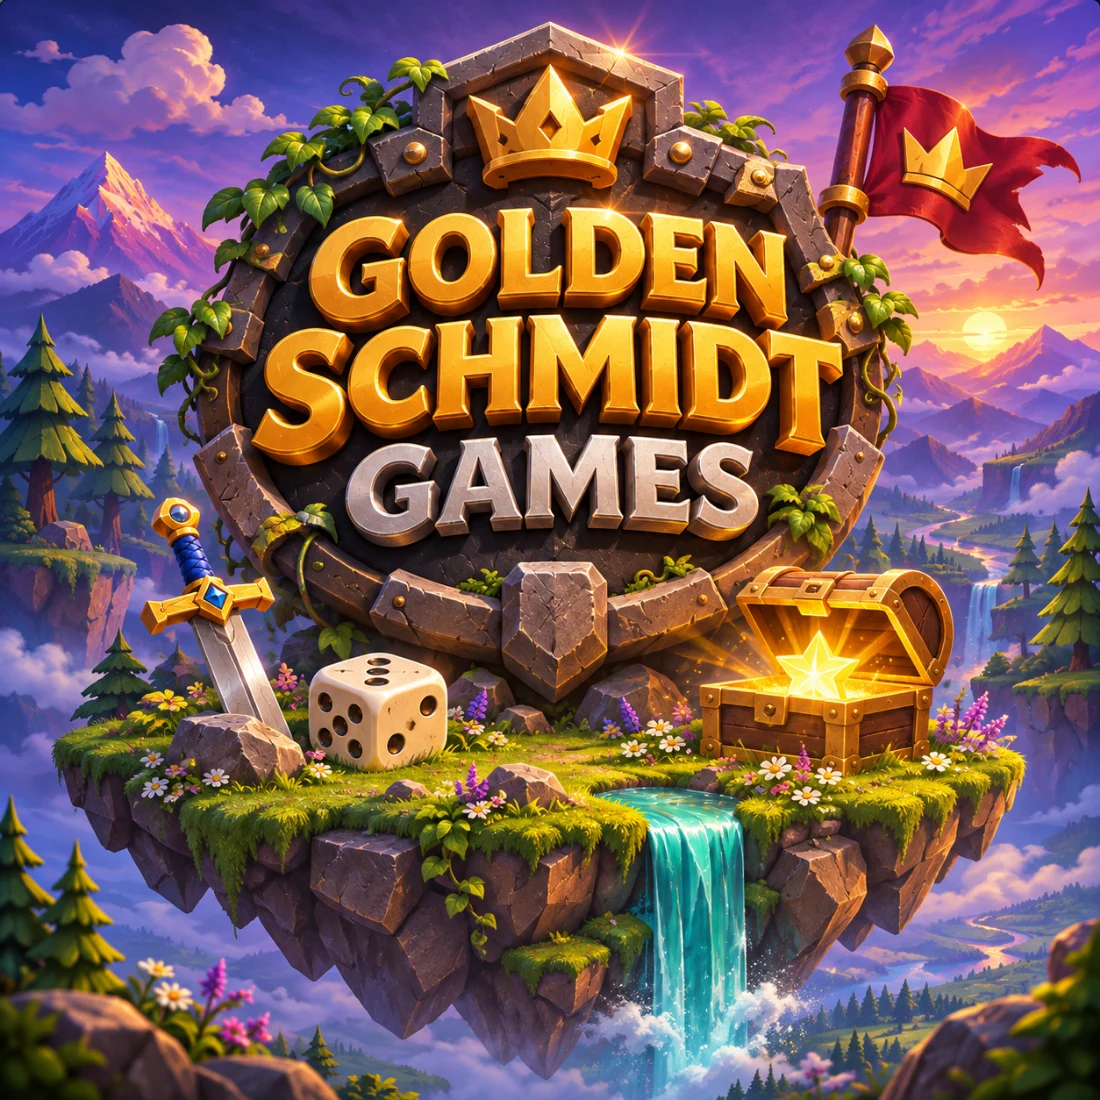
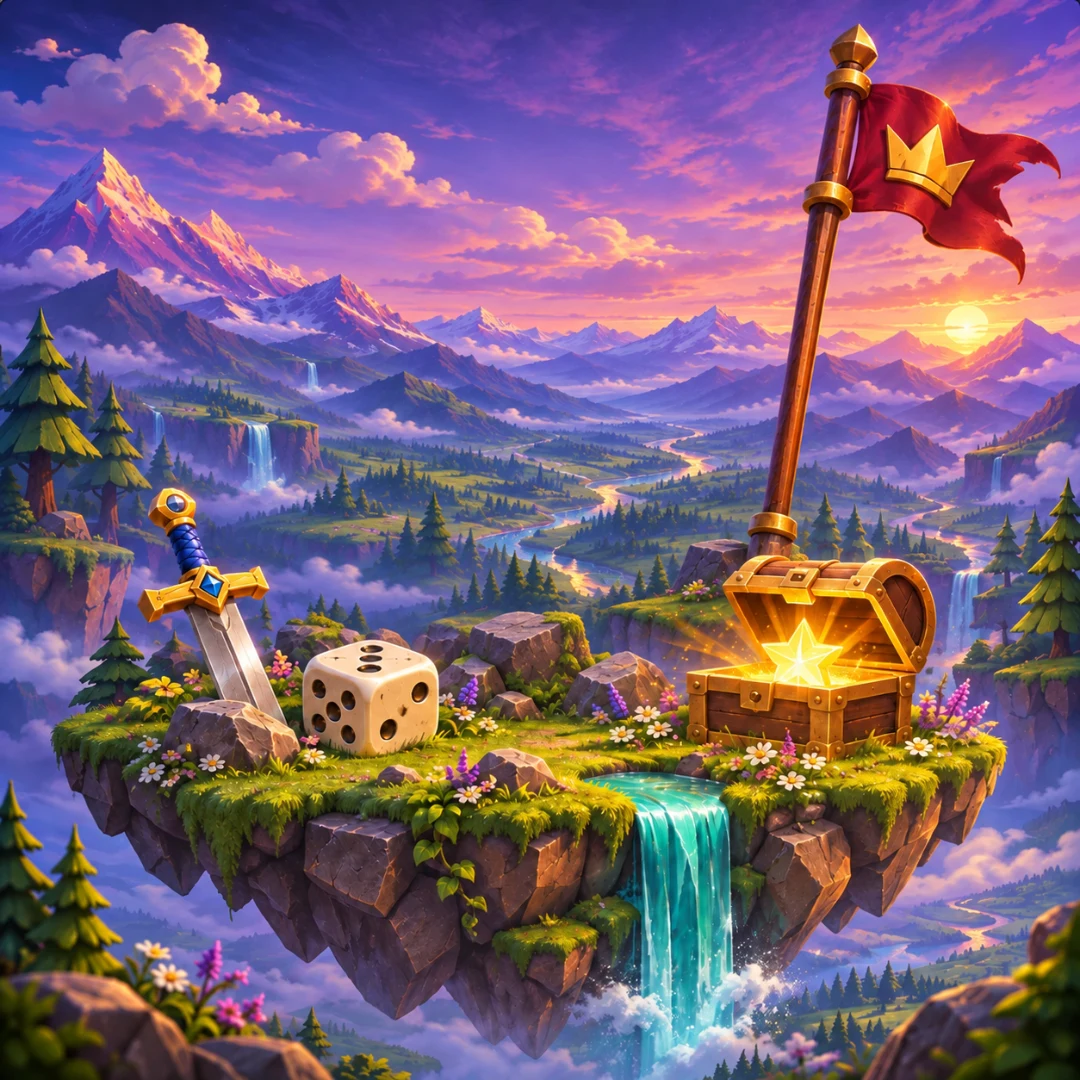
Animiere das Startwappen und unterscheide Menüklicks nach Richtung

diff --git a/src/styles/home.css b/src/styles/home.css
@@ -28,16 +28,21 @@
 .expedition-profile span { display: grid; place-items: center; border-radius: 50%; width: 30px; height: 30px; flex: none; background: linear-gradient(145deg,#ffdaeb,#ac7ccc); color: #311831; font: 1.1rem var(--iw-font-display); }
 .expedition-profile b { font-size: .78rem; text-overflow: ellipsis; white-space: nowrap; overflow: hidden; }
 .expedition-hero { width: min(100%, 760px); flex: 1 1 0; min-height: 0; margin: 0; position: relative; }
-.expedition-hero img { display: block; width: 100%; height: 100%; object-fit: cover; object-position: 50% 42%;
-  mask-image: linear-gradient(to bottom,transparent,black 5%,black 89%,transparent);
-  animation: island-arrival 850ms cubic-bezier(.2,.7,.3,1) both;
-}
+.expedition-scene { position:absolute; inset:0; container-type:size; pointer-events:none; }
+.expedition-island { display:block; width:100%; height:100%; object-fit:cover; object-position:50% 42%;
+  mask-image:linear-gradient(to bottom, transparent, black 7%, black 86%, transparent); }
+.expedition-crest { display:block; position:absolute; width:min(100cqh, 125cqw); aspect-ratio:1;
+  left:50%; top:42%; transform:translate(-50%, -42%); }
+.crest-piece { position:absolute; display:block; height:auto; }
+.crest-plaque { left:12%; top:2%; width:76%; height:59%; --arrival:0ms; }
+.crest-golden { left:25%; top:18.5%; width:50%; --arrival:480ms; }
+.crest-schmidt { left:20%; top:31%; width:60%; --arrival:880ms; }
+.crest-games { left:29.5%; top:44.5%; width:41%; --arrival:1280ms; }
+.crest-crown { left:42.9%; top:6.9%; width:14.2%; --arrival:1680ms; }
 .expedition-dock { flex: none; width: min(100%, 540px); padding: 0 20px max(12px,env(safe-area-inset-bottom)); text-align: center; }
-.expedition-motto { display: flex; align-items: center; justify-content: center; gap: 11px; font: 600 clamp(.62rem,2.6vw,.76rem) var(--iw-font-ui);
-  letter-spacing: .13em; text-transform: uppercase; margin: 8px 0 18px; color: #ffe6aa; text-shadow: 0 1px 3px #000; }
-.expedition-motto i { height: 1px; width: 28px; position: relative; background: #d4ac72; }
-.expedition-motto i::after { content: ""; position:absolute; right:0; top:-2px; width:5px; height:5px; transform:rotate(45deg); background:#f7d68e; }
-.expedition-motto i:last-child { transform:rotate(180deg); }
+.expedition-motto { font:600 clamp(.76rem,3.3vw,.94rem)/1.35 var(--iw-font-ui); margin:8px 0 18px;
+  color:#ffe6aa; text-shadow:0 1px 4px #151120; text-wrap:balance; }
+.expedition-motto span { white-space:nowrap; }
 .expedition-actions { display: grid; gap: 12px; }
 .adventure-choice {
   --edge: #885123; --top: #fff1bf; --base: #ffc86a; --low: #e8a045; --accent: #75431e; --letter: #3a2215;
@@ -74,20 +79,34 @@
 .expedition-home :is(.menu-sound,.dock-tool,.expedition-profile):focus-visible { outline:3px solid #ffdd8e; outline-offset:3px; }
 .expedition-utilities:has(.app-update:not([data-status=idle],[data-status=unsupported])) {padding-bottom:44px;}
 .expedition-utilities .app-update:not([data-status=idle],[data-status=unsupported]) p {top:calc(100% - 39px);bottom:auto;padding:4px 8px;font-size:.7rem;max-height:40px;border:0;text-align:center;}
-@keyframes island-arrival {from {opacity:.35;transform:scale(1.035)} to {opacity:1;transform:scale(1)}}
+@media (prefers-reduced-motion:no-preference) {
+  .expedition-home[data-intro="loading"] :is(.crest-piece,.expedition-motto) { visibility:hidden; }
+  .expedition-home[data-intro="playing"] .crest-piece { animation:crest-drop 400ms var(--arrival) both; }
+  .expedition-home[data-intro="playing"] .crest-plaque { animation-duration:480ms; }
+  .expedition-home[data-intro="playing"] .expedition-motto { animation:motto-reveal 550ms ease-out 2080ms both; }
+}
+@keyframes crest-drop {
+  0% { transform:translateY(-110dvh); animation-timing-function:cubic-bezier(.4,.04,.8,.55); }
+  72% { transform:translateY(0); animation-timing-function:ease-out; }
+  85% { transform:translateY(-5px); animation-timing-function:ease-in; }
+  100% { transform:translateY(0); }
+}
+@keyframes motto-reveal { from { opacity:0; } to { opacity:1; } }
 @keyframes dock-arrival {from {opacity:.2;transform:translateY(10px)} to {opacity:1;transform:none}}
 .expedition-actions > button {animation:dock-arrival .38s ease-out both}
 .expedition-actions > button:nth-child(2) {animation-delay:.08s}
 @media (max-height:680px) {
   .expedition-motto { margin:2px 0 10px; }
   .expedition-utilities { margin-top:12px; }
-  .expedition-hero img {object-fit:contain;}
+  .expedition-island { width:min(100%, 100cqh); margin:auto; object-fit:contain;
+    mask-image:linear-gradient(to right,transparent,black 10%,black 90%,transparent), linear-gradient(to bottom,transparent,black 7%,black 88%,transparent);
+    mask-composite:intersect; }
 }
 @media (min-width:700px) and (orientation:landscape) {
   body:has(.expedition-home) {padding:0}
   .expedition-home {display:grid;grid-template: auto 1fr / minmax(0,1.35fr) minmax(280px,1fr);padding:0 max(22px,5vw);gap:0 5vw;}
   .expedition-bar {grid-column:1/-1;max-width:none;width:100%;}
   .expedition-hero {height:min(77dvh,680px);width:100%;}
-  .expedition-hero img {object-fit:contain;mask-image:radial-gradient(ellipse closest-side,#000 72%,transparent 145%);}
+  .expedition-island {object-fit:contain;mask-image:radial-gradient(ellipse closest-side,#000 72%,transparent 145%);}
 }
 @media (prefers-reduced-motion:reduce) { .expedition-home *, .adventure-choice__face {animation:none;transition:none;} }

diff --git a/tests/browser/home-screen.spec.ts b/tests/browser/home-screen.spec.ts
@@ -11,11 +11,28 @@ for (const reducedMotion of ["no-preference", "reduce"] as const) {
     const online = page.getByRole("button", { name: /Online spielen/ });
     await expect(local).toBeInViewport();
     await expect(online).toBeInViewport();
-    // The rendered island rises once and then the start screen rests; no live 3D scene is loaded.
     const island = page.getByRole("img", { name: "GoldenSchmidtGames" });
     await expect(island).toBeVisible();
-    // Every rendered layer and button sprite has loaded.
     await expect.poll(() => page.evaluate(() => [...document.querySelectorAll<HTMLImageElement>(".home img")].every(img => img.complete && img.naturalWidth > 0))).toBe(true);
+    await expect(page.locator(".home")).toHaveAttribute("data-intro", "playing");
+    const layers = page.locator(".crest-piece, .expedition-motto");
+    const animations = await layers.evaluateAll(elements => elements.map(element => {
+      const animation = element.getAnimations()[0];
+      const effect = animation?.effect as KeyframeEffect | undefined;
+      return effect && { delay: effect.getTiming().delay, end: effect.getComputedTiming().endTime,
+        frames: effect.getKeyframes() };
+    }));
+    if (reducedMotion === "reduce") {
+      expect(animations.every(animation => !animation)).toBe(true);
+    } else {
+      const order = await layers.evaluateAll(elements => elements.map(element => element.classList.item(element.classList.length - 1)));
+      expect(order).toEqual(["crest-plaque", "crest-golden", "crest-schmidt", "crest-games", "crest-crown", "expedition-motto"]);
+      for (let i = 1; i < animations.length; i++) {
+        expect(animations[i]?.delay).toBeGreaterThanOrEqual(Math.round(Number(animations[i - 1]?.end)));
+      }
+      expect(animations.at(-1)?.frames.map(frame => frame.opacity)).toEqual(["0", "1"]);
+      expect(animations.at(-1)?.frames.every(frame => !("transform" in frame))).toBe(true);
+    }
     await expect(page.locator(".expedition-actions .adventure-choice")).toHaveCount(2);
     await expect(page.locator(".home canvas")).toHaveCount(0);
     await expect.poll(() => page.evaluate(() => document.getAnimations()
@@ -23,7 +40,8 @@ for (const reducedMotion of ["no-preference", "reduce"] as const) {
       .filter(animation => animation.playState === "running").length), { timeout: 5000 }).toBe(0);
     // One fixed screen: nothing scrolls, the sky and corner layers are decoration only.
     expect(await page.evaluate(() => document.documentElement.scrollWidth <= innerWidth && document.documentElement.scrollHeight <= innerHeight)).toBe(true);
-    await expect(page.locator(".expedition-motto")).toBeVisible();
+    await expect(page.locator(".expedition-motto")).toHaveText("Play like the GoldenSchmidt - Be like the GoldenSchmidt");
+    await expect(page.locator(".expedition-motto")).toHaveCSS("opacity", "1");
     await page.screenshot({ path: info.outputPath(`start-${reducedMotion}.png`), fullPage: true });
 
     // Both modes remain immediately accessible, including from the keyboard.
@@ -31,6 +49,7 @@ for (const reducedMotion of ["no-preference", "reduce"] as const) {
     await page.keyboard.press("Enter");
     await expect(page.getByRole("heading", { name: "Lokal spielen", exact: true })).toBeVisible();
     await page.getByRole("button", { name: "Zurück", exact: true }).click();
+    await expect(page.locator(".home")).toHaveAttribute("data-intro", "complete");
     await page.getByRole("button", { name: /Online spielen/ }).click();
     await expect(page.getByRole("heading", { name: "Online spielen", exact: true })).toBeVisible();
     expect(errors).toEqual([]);

diff --git a/src/screens/HomeScreen.tsx b/src/screens/HomeScreen.tsx
@@ -1,3 +1,4 @@
+import { useEffect, useRef, useState } from "react";
 import type { GuestProfile } from "../../shared/types";
 import { InstallPrompt } from "../components/InstallPrompt";
 import { AppUpdate } from "../components/AppUpdate";
@@ -5,6 +6,15 @@ import { AdventureChoice } from "../components/AdventureChoice";
 import { MenuSound } from "../components/MenuSound";
 import { displayName } from "../lib/profile";
 import island from "../assets/expedition/island.webp";
+
+import plaque from "../assets/expedition/plaque.webp";
+import golden from "../assets/expedition/golden.webp";
+import schmidt from "../assets/expedition/schmidt.webp";
+import games from "../assets/expedition/games.webp";
+import crown from "../assets/expedition/crown.webp";
+
+const titleLayers = { plaque, golden, schmidt, games, crown };
+let introShown = false;
 
 interface HomeProps {
   profile: GuestProfile;
@@ -20,16 +30,39 @@ interface HomeProps {
 
 export function HomeScreen({profile, online, onProfile, onLocal, onOnline, onResumeHost, onResumeOnline, resumeGameName = "Inselparty", resumeError}: HomeProps) {
   const name = displayName(profile);
-  return <main className="home expedition-home">
+  const hero = useRef<HTMLHeadingElement>(null);
+  const [intro, setIntro] = useState<"loading" | "playing" | "complete">(() => introShown ? "complete" : "loading");
+  useEffect(() => {
+    if (intro !== "loading" || !hero.current) return;
+    let active = true;
+    const layers = Array.from(hero.current.querySelectorAll("img"));
+    void Promise.allSettled(layers.map(layer => layer.decode())).then(() => {
+      if (active) {
+        introShown = true;
+        setIntro("playing");
+      }
+    });
+    return () => { active = false; };
+  }, [intro]);
+  return <main className="home expedition-home" data-intro={intro}>
     <div className="expedition-bar">
       <span className="expedition-status"><i data-online={online} />{online ? "Online" : "Offline"}</span>
       <div className="expedition-account"><MenuSound/><button className="expedition-profile" onClick={onProfile} aria-label={`Gastprofil: ${name}`}>
         <span aria-hidden="true">{name.slice(0,1).toUpperCase()}</span><b>{name}</b>
       </button></div>
     </div>
-    <h1 className="expedition-hero"><img src={island} alt="GoldenSchmidtGames" fetchPriority="high"/></h1>
+    <h1 className="expedition-hero" ref={hero}>
+      <span className="expedition-scene" role="img" aria-label="GoldenSchmidtGames">
+        <img className="expedition-island" src={island} alt="" fetchPriority="high"/>
+        <span className="expedition-crest">
+          {Object.entries(titleLayers).map(([part, src]) =>
+            <img key={part} className={`crest-piece crest-${part}`} src={src} alt=""/>
+          )}
+        </span>
+      </span>
+    </h1>
     <div className="expedition-dock">
-      <div className="expedition-motto"><i aria-hidden="true"/>Minispiele · Party · Gemeinsam<i aria-hidden="true"/></div>
+      <div className="expedition-motto"><span>Play like the GoldenSchmidt</span> - <span>Be like the GoldenSchmidt</span></div>
       <nav className="expedition-actions" aria-label="Spielmodus wählen">
         <AdventureChoice title="Lokal spielen" detail="Zusammen an einem Gerät" icon="group" onClick={onLocal}/>
         <AdventureChoice title="Online spielen" detail="Jeder am eigenen Gerät" icon="globe" violet onClick={onOnline}/>

diff --git a/src/components/PartyMini.tsx b/src/components/PartyMini.tsx
@@ -76,5 +76,5 @@ export function PartyPractice({miniId,onClose,characterId}:{miniId:MiniId;onClos
   return <div className="party-overlay"><div className="party-practice" role="dialog" aria-modal="true" aria-label={`Übung: ${MINIS[miniId].name}`} tabIndex={-1} ref={dialog} onKeyDown={e=>{
     if(e.key==="Escape"){e.stopPropagation();close.current();}
     if(e.key==="Tab"){const buttons=dialog.current?.querySelectorAll<HTMLButtonElement>('button:not(:disabled)');if(!buttons?.length)return;const first=buttons[0],last=buttons[buttons.length-1];if(e.shiftKey&&(document.activeElement===first||document.activeElement===dialog.current)){e.preventDefault();last.focus();}else if(!e.shiftKey&&(document.activeElement===last||document.activeElement===dialog.current)){e.preventDefault();first.focus();}}
-  }}><p className="party-practice-label">Übung · zählt nicht zur Wertung</p><PartyPracticeGoals game={game}/><PartyMini game={publicParty(game,"practice",now)} id="practice" now={now} send={send} control={control}/>{error&&<p role="alert">{error}</p>}{game.mini?.runs.practice.done&&<button className="button button--primary button--wide" onClick={()=>{bots.current=new PartyBotDriver();setGame(createPartyPractice(miniId,Date.now(),characterId));setError("");}}>Noch einmal üben</button>}<button className="button button--secondary button--wide" onClick={onClose}>Übung schließen</button></div></div>;
+  }}><p className="party-practice-label">Übung · zählt nicht zur Wertung</p><PartyPracticeGoals game={game}/><PartyMini game={publicParty(game,"practice",now)} id="practice" now={now} send={send} control={control}/>{error&&<p role="alert">{error}</p>}{game.mini?.runs.practice.done&&<button className="button button--primary button--wide" onClick={()=>{bots.current=new PartyBotDriver();setGame(createPartyPractice(miniId,Date.now(),characterId));setError("");}}>Noch einmal üben</button>}<button className="button button--secondary button--wide" data-menu-direction="back" onClick={onClose}>Übung schließen</button></div></div>;
 }

diff --git a/src/matches/sfx.ts b/src/matches/sfx.ts
@@ -1,4 +1,4 @@
-/** Small synthesized sound effects; no audio files, no network. */
+/** Match effects are synthesized. Menu navigation shares one short mouse sample. */
 const KEY = "gsg.match.sound";
 let context: AudioContext | undefined;
 
@@ -10,27 +10,25 @@ export function unlockSound() {
   try { context ??= new AudioContext(); if (context.state === "suspended") void context.resume(); } catch { context = undefined; }
 }
 
-let clickBuffer: AudioBuffer | undefined;
+let clickBuffer: Promise<AudioBuffer> | undefined;
 
-export function playMenuClick() {
+export async function playMenuClick(direction: "forward" | "back" = "forward") {
   if (!soundEnabled()) return;
   unlockSound();
-  if (!context) return;
-  if (!clickBuffer) {
-    const rate = context.sampleRate;
-    clickBuffer = context.createBuffer(1, Math.ceil(rate * .032), rate);
-    const samples = clickBuffer.getChannelData(0);
-    for (let i = 0; i < samples.length; i++) {
-      const t = i / rate;
-      const snap = (Math.random() * 2 - 1) * .16 * Math.exp(-t / .002);
-      const body = .12 * Math.sin(2 * Math.PI * 340 * t) * Math.exp(-t / .0045);
-      samples[i] = Math.min(1, t / .00035) * (snap + body);
-    }
-  }
-  const source = context.createBufferSource();
-  source.buffer = clickBuffer;
-  source.connect(context.destination);
-  source.start();
+  const audio = context;
+  if (!audio) return;
+  try {
+    clickBuffer ??= fetch(new URL("../assets/audio/menu-click.wav?no-inline", import.meta.url))
+      .then(response => response.arrayBuffer())
+      .then(bytes => audio.decodeAudioData(bytes));
+    const buffer = await clickBuffer;
+    if (!soundEnabled()) return;
+    const source = audio.createBufferSource();
+    source.buffer = buffer;
+    source.playbackRate.value = direction === "back" ? .72 : 1;
+    source.connect(audio.destination);
+    source.start();
+  } catch { clickBuffer = undefined; }
 }
 
 export type Sfx = "tick" | "go" | "shot" | "hit" | "score" | "fail" | "win" | "bounce" | "power" | "boom";

diff --git a/tests/browser/menu-navigation.spec.ts b/tests/browser/menu-navigation.spec.ts
@@ -40,7 +40,7 @@ test("Menübuttons spielen genau einen kurzen Klick, stumme Buttons bleiben leis
     const start = AudioBufferSourceNode.prototype.start;
     AudioBufferSourceNode.prototype.start = function (...args) {
       const log = JSON.parse(sessionStorage.getItem("menu-clicks") ?? "[]") as number[];
-      log.push(this.buffer?.duration ?? 0);
+      log.push((this.buffer?.duration ?? 0) / this.playbackRate.value);
       sessionStorage.setItem("menu-clicks", JSON.stringify(log));
       start.apply(this, args);
     };
@@ -52,6 +52,7 @@ test("Menübuttons spielen genau einen kurzen Klick, stumme Buttons bleiben leis
   await page.getByRole("button", {name: /Online spielen/}).click();
   const clicks: number[] = await page.evaluate(() => JSON.parse(sessionStorage.getItem("menu-clicks") ?? "[]"));
   expect(clicks).toHaveLength(2);
+  expect(clicks[1]).toBeGreaterThan(clicks[0] * 1.3);
   for (const duration of clicks) {
     expect(duration).toBeGreaterThan(0);
     expect(duration).toBeLessThan(.04);

diff --git a/src/components/InstallPrompt.tsx b/src/components/InstallPrompt.tsx
@@ -68,7 +68,7 @@ export function InstallPrompt() {
       </button>
       {showHelp && (
         <div className="install-help">
-          <button className="install-help__close" onClick={() => setShowHelp(false)} aria-label="Installationshilfe schließen">×</button>
+          <button data-menu-direction="back" className="install-help__close" onClick={() => setShowHelp(false)} aria-label="Installationshilfe schließen">×</button>
           {installError && <p role="alert">{installError}</p>}
           {isIos ? <p>Öffne diesen Link in <strong>Safari</strong>. Wähle <strong>Teilen → Zum Home-Bildschirm</strong> und, falls angezeigt, <strong>Als Web-App öffnen → Hinzufügen</strong>.</p>
             : <p>Öffne diesen Link direkt in <strong>Chrome</strong> oder deinem normalen Browser. Wähle im <strong>⋮-Menü</strong> den Eintrag <strong>App installieren</strong> oder <strong>Zum Startbildschirm hinzufügen</strong>. Auf dem PC findest du die Installation meist oben in der Adressleiste.</p>}

diff --git a/src/components/ScreenHeader.tsx b/src/components/ScreenHeader.tsx
@@ -3,7 +3,7 @@ import { MenuSound } from "./MenuSound";
 
 export function ScreenHeader({ title, onBack }: { title: string; onBack: () => void }) {
   return <header className="voyage-header">
-    <nav aria-label="Menü"><button className="voyage-back" onClick={onBack} aria-label="Zurück"><MenuIcon name="back"/>Zurück</button><MenuSound/></nav>
+    <nav aria-label="Menü"><button data-menu-direction="back" className="voyage-back" onClick={onBack} aria-label="Zurück"><MenuIcon name="back"/>Zurück</button><MenuSound/></nav>
     <div className="voyage-heading"><span aria-hidden="true"><MenuIcon name="crown"/></span><h1>{title}</h1></div>
   </header>;
 }

diff --git a/src/App.tsx b/src/App.tsx
@@ -207,7 +207,7 @@ export default function App() {
     <div className="app-shell" onClickCapture={event => {
       const control = event.target instanceof Element ? event.target.closest("button, summary") : null;
       if (!control?.closest(".expedition-home, .iw-menu, .iw-dialog") || control.matches(".menu-sound, :disabled")) return;
-      playMenuClick();
+      void playMenuClick(control.matches('[data-menu-direction="back"], [aria-expanded="true"], details[open] > summary') ? "back" : "forward");
     }}>
       {view === "home" && (
         <HomeScreen

diff --git a/src/components/ProfileDialog.tsx b/src/components/ProfileDialog.tsx
@@ -43,7 +43,7 @@ export function ProfileDialog({
           />
         </label>
         <div className="dialog__actions">
-          <button className="button button--ghost" onClick={onClose}>Abbrechen</button>
+          <button className="button button--ghost" data-menu-direction="back" onClick={onClose}>Abbrechen</button>
           <button
             className="button button--primary"
             onClick={() => onSave({ ...profile, username: username.trim() })}

diff --git a/vite.config.ts b/vite.config.ts
@@ -46,7 +46,7 @@ export default defineConfig({
       },
       workbox: {
         // Fonts and the rendered start screen layers are part of the offline app shell.
-        globPatterns: ["**/*.{js,css,html,woff2,webp}"],
+        globPatterns: ["**/*.{js,css,html,woff2,webp,wav}"],
         navigateFallback: "/index.html",
         skipWaiting: false,
         clientsClaim: true

diff --git a/README.md b/README.md
@@ -16,7 +16,7 @@ Eine installierbare Smartphone-PWA für lokale und Online-Spiele. Das aktuelle G
 
 Das Qwixx-Modul enthält den gemeinsamen weißen Wurf, die zusätzliche Farbaktion der aktiven Person, vier getrennte Wertungsblätter, Fehlwürfe, Reihenschlüsse, automatische Wertung und die Spielergebnisanzeige.
 
-Das Spielmenü nutzt eine eigens illustrierte Insel mit goldenem Titelwappen, ein Landschaftspanorama und vier Spielmotive. Die WebP-Dateien liegen in `src/assets/expedition/` und werden mit der PWA zwischengespeichert. Spielzugänge, Schrift, Gastprofil, Installation und Updates sind interaktive HTML-Elemente. Der Startbildschirm füllt eine Bildschirmhöhe. Eine kurze Einblendung entfällt bei reduzierter Bewegung. Der Lautsprecher schaltet die Menü- und Match-Spieltöne auf diesem Gerät um.
+Das Spielmenü nutzt eine eigens illustrierte Insel mit goldenem Titelwappen, ein Landschaftspanorama und vier Spielmotive. Die WebP-Dateien liegen in `src/assets/expedition/` und werden mit der PWA zwischengespeichert. Spielzugänge, Schrift, Gastprofil, Installation und Updates sind interaktive HTML-Elemente. Der Startbildschirm füllt eine Bildschirmhöhe. Beim ersten Aufruf fallen Steintafel, GOLDEN, SCHMIDT, GAMES und Krone nacheinander ins Bild. Danach blendet das Motto ein. Bei reduzierter Bewegung und beim Zurückkehren ins Startmenü erscheint sofort das fertige Wappen. Ein kurzer Mausklick begleitet Menüaktionen, beim Zurückgehen klingt er tiefer. Der Lautsprecher schaltet die Menü- und Match-Spieltöne auf diesem Gerät um.
 
 Unter **Lokal spielen** stehen die drei Tischspiele sowie **Minispiele testen** mit Bots. Unter **Online spielen** führen getrennte Wege zum Erstellen und Beitreten. Raumcode und QR-Einladung stehen im Beitrittsmenü. Lobby, Gastprofil und QR-Dialog verwenden dieselben Formular- und Aktionsstile. Die frühere 3D-Renderpipeline ist unter [Startscreen-Render](docs/startscreen-render.md) dokumentiert.
 
